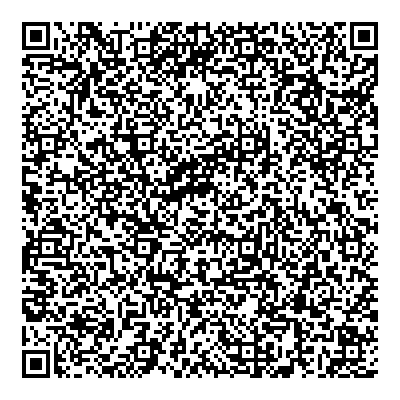
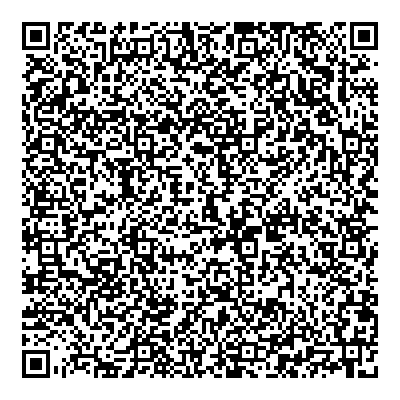
correct DSC

diff --git a/PA/1.0.0/README.md b/PA/1.0.0/README.md
@@ -8,13 +8,13 @@
 
 ###  Avelino Sanchez Zapata 2 doses ASTRAZENECA
 
-HC1:NCFRW2*.P8D0/232A3MQT LB0OO4ODBYHQ7FV933E3HELRAI%VCZEN78U41IONK:VQ9Q5*52:$06NK6EAVSLPG0X70ZR2NQ9DY8*42KMGMMG66P.BBW87L/SYDEM$P*JCS7GLTN80KQRN %14D05K5TL3H/U 3PRT4XKE%MO%A2 $KQ4OD%LOIE3C0W48O84.WVIEOL40RKIU5I*UCU6V.RP5-8P7TMJH12V7N06D2 24KU96U1L82W+CXHBG.IEUU$AH5T2+OCTN55LE*:Q/ REJEL7K5DD35E2PN.P14NO/HOT1G  LPVHQ7VE4SA2J3PQ8QO848X5M9BHULAWOQIBRG1L3.5UI5887R52.-601S2S39A2DBMD9RQZCQNN53A5EJ5*E2EA/LSFQ63PPQEDVY83$9S0M.:29641EM9/7F0N6RV%-66B1USROPO.:RBLE13G XFF2WY41T0AUDU45OWGQ/$3LWONHQ2WO3UD. P1 1Q+UW9MC:4JDBBFW05W45AVRE
+HC1:NCFRW20088D0I40/JQHLDID08PKV3U+:NV$UPB8 :93Z2R299AHZKVAYNGK7Q3S/EFNS8T34XDQDB8SA8E.50JJT964DH.445:A0JB-E3NG365MJ%V NU.9OZ.92DU3 U *7X/K7BE RNIXLRO1% M6 FZPI*-9+W0QK8W32 .8IQ7RTQ0LNF+PQWJS22%20YS6P5ABVK3J3T551-DFUNJ3J7653%P516GSPLUAUD3R42K00K601MDI M+G7X*O3R4W.FU95B2FQ6C4A4XTRYR8BO0VD4IB8%U8H-K2KLBK3GO0-BCH78T5N51H498P6G+ O/QHD54MT2.Q8P00:15.CGRKN*WRFZQ+*2EA7:G2J6RQ.L*H5*FH59B.L7P$5SJ6+VBIPTOLSPZJK5LC2R/E5PGSH+P7SR2$0A241H5B6EB SAZE$+N2P7R6W%RM-CU5BM8QVN/K7WTN4AFIBVTA8*3W4BN0WPZV*3RFFVBPUB7V-U00V0QVV17W7EW79H:4W DEMPE
 
-![VAC2](VAC2.png)
+![VAC2](VAC1.png)
 
 ### COVID TEST Andrés Espinoza
 
-HC1:NCFMX1B8O8D0C400GE XK*NKFQBEE4JOFS5SKCULIRHHK+I8RDLTA94FVJ2SOFBGK1$9JVV0-P6ZB9F5G%2P:Q6OZMT22LO09F8F:1SS83PC4:D:FUQ5OBDTTGJ7X2UUF+-A3$VC724N7X5MJKGMCIG9UBN32YP1E8VA6T$V XG 2IIB3QEEQCLB9KFTC9IANT28XPQM81LI.91W593A0 EQ $07IRMBJB9NX42%ID7US8XHE8BQJ4KA9*F4E.PGA0-79-IEBKH.78.0C3LS KA799$J2UFBVLC$PSPQMPS97EQ/BFSBA8AH%F3KJ62V2OZI0WG6YGB9EVIB:FH9D8GD1S%Q2E9W2G.8G5783I6/$TBRJ.RC2 9YIN2Z0456A3DM:O.JA*EE:0ADYQCO1756VXH%LA+%SL/BEZ64LCE24OSO+Q7/+J-LR7/7X%3A5KO7S0IPW:A8VTD6OY1N8QU:UJ-QB5+760NI.M:CUI/JY6MX1HKWRY.LJKT5-PI 92*B-BOA5BC%T9JOHKF
+HC1:NCFMX1JA68D0000LHS5*PR84%/28AEWKDTVUUIF3$N-HL8 9MZMG2E9B147S%O7JFP0*KJIH9DKO*6Q$5UL2554Y9DKG4T7DIYLGKDK11NFT$ IU07K1AMLNG86RWP3$7/.UK7ATMT7BA0F77KQ+4C.$PBO3LAIH 66PAKJO5IKCVUUOCV2STA61+8O.O/54BV3VC1495 50ZA9YAKKLBJXKANBDN29:U+QSS*TE*6A QTVL*HTWG88LSEYBG54WQ6J:2V8H+RAVC29T4$DE-2IIH2ZWI XD:XTIFRRW2IBEZES73B954LML4RP8ARZDAWG2M228TO8UUD+5G33$T20.KB29:ZVQ60EE0V35GODRTS LD6MM-G66UOQY28BD:QL7Y1G868CDSTC9$A*X2PVL5PK$0Q85J8TR4XTFOHP217CJ93U4WN XOQWKICPK%VS1V/SEYURVRJ9SCT5LU8FXNP4+UM6EL-S4TN%8U $73.8CKI6MROEQ30O%AOKF8OO9N+725W3SD63F
 
 ![TEST1](TEST1.png)
 

diff --git a/PA/1.2.1/README.md b/PA/1.2.1/README.md
@@ -5,6 +5,6 @@
 
 ### Recovery Jeremy Andersen
 
-HC1:NCFOXN%TSMAHN-HPO4898U9R66DK61QG47X5QR9H9EOGIXYE EN:X95NQ0-R NI4EFSYSS%OM6PYE93JJ8KLVE9T78.PDOWC.ND+Q0795DB5YE9/MVUY9QA5*CBVZ0K1HL$05QNYZ0-B5O42DGK2CHF*AZ%I801OH6/OAT$79KG-RI PQVW5/O16%HAT1Z%PPRAAUICO1OZ5+ZEEYHENH WUQRELS400TV87E.KSZ2CET7Y4 CT1HF$%2G5T+*431TUZKQHN0NN3*88AL**I697OLNBY0M%V%X4G90IY1* H2O1XQ31REJWJJ1H:6Q/RC:F8IF9T/1X$HGTTB+BZP7%P4%421EN.RIT/T*EAVDJT$18+Q2M3U0EJUTPWMVFMESBS:L4WH.M9S4QD:IIY23H0I54I*C
+HC1:NCFOXN%TSMAHN-H$ SIZA+CVDZL096QG47X5QR9H9EOGII+U*/Q-RIM*M7JB-MPW$NLEEEJCY S2%K9+PY+Q0R4U64SW65J6SV6DG0BZIE I2%K:XF03L/ZI4Q5%H0AN8XI0PZB1ZSZXI551LDQV ONM5PRP-RGZJJTKLT1K5LO5B9-NT0 2$$0X4PCY0X:CZD5CC9T0HC+2CNNO5PK.G7LPMIH-O92UQ3F6AYUQJALPHTZU3UQ%SQQJA2JA+M5XZQTK9P NDRG+ F/UI2YU3F6F1WDVB8PGO2WVWPTRQRKF1MF172JBTD.7K8U51SOTU%NSA/1PCQT:T9XTV:7T/FD+SIJ037G59352A/CCMTIJY7Y$VXLHI4E$EU4I37$BWUTXPJACF3.V95H73N3.G+ O$109E101
 
 ![REC1](REC1.png)
